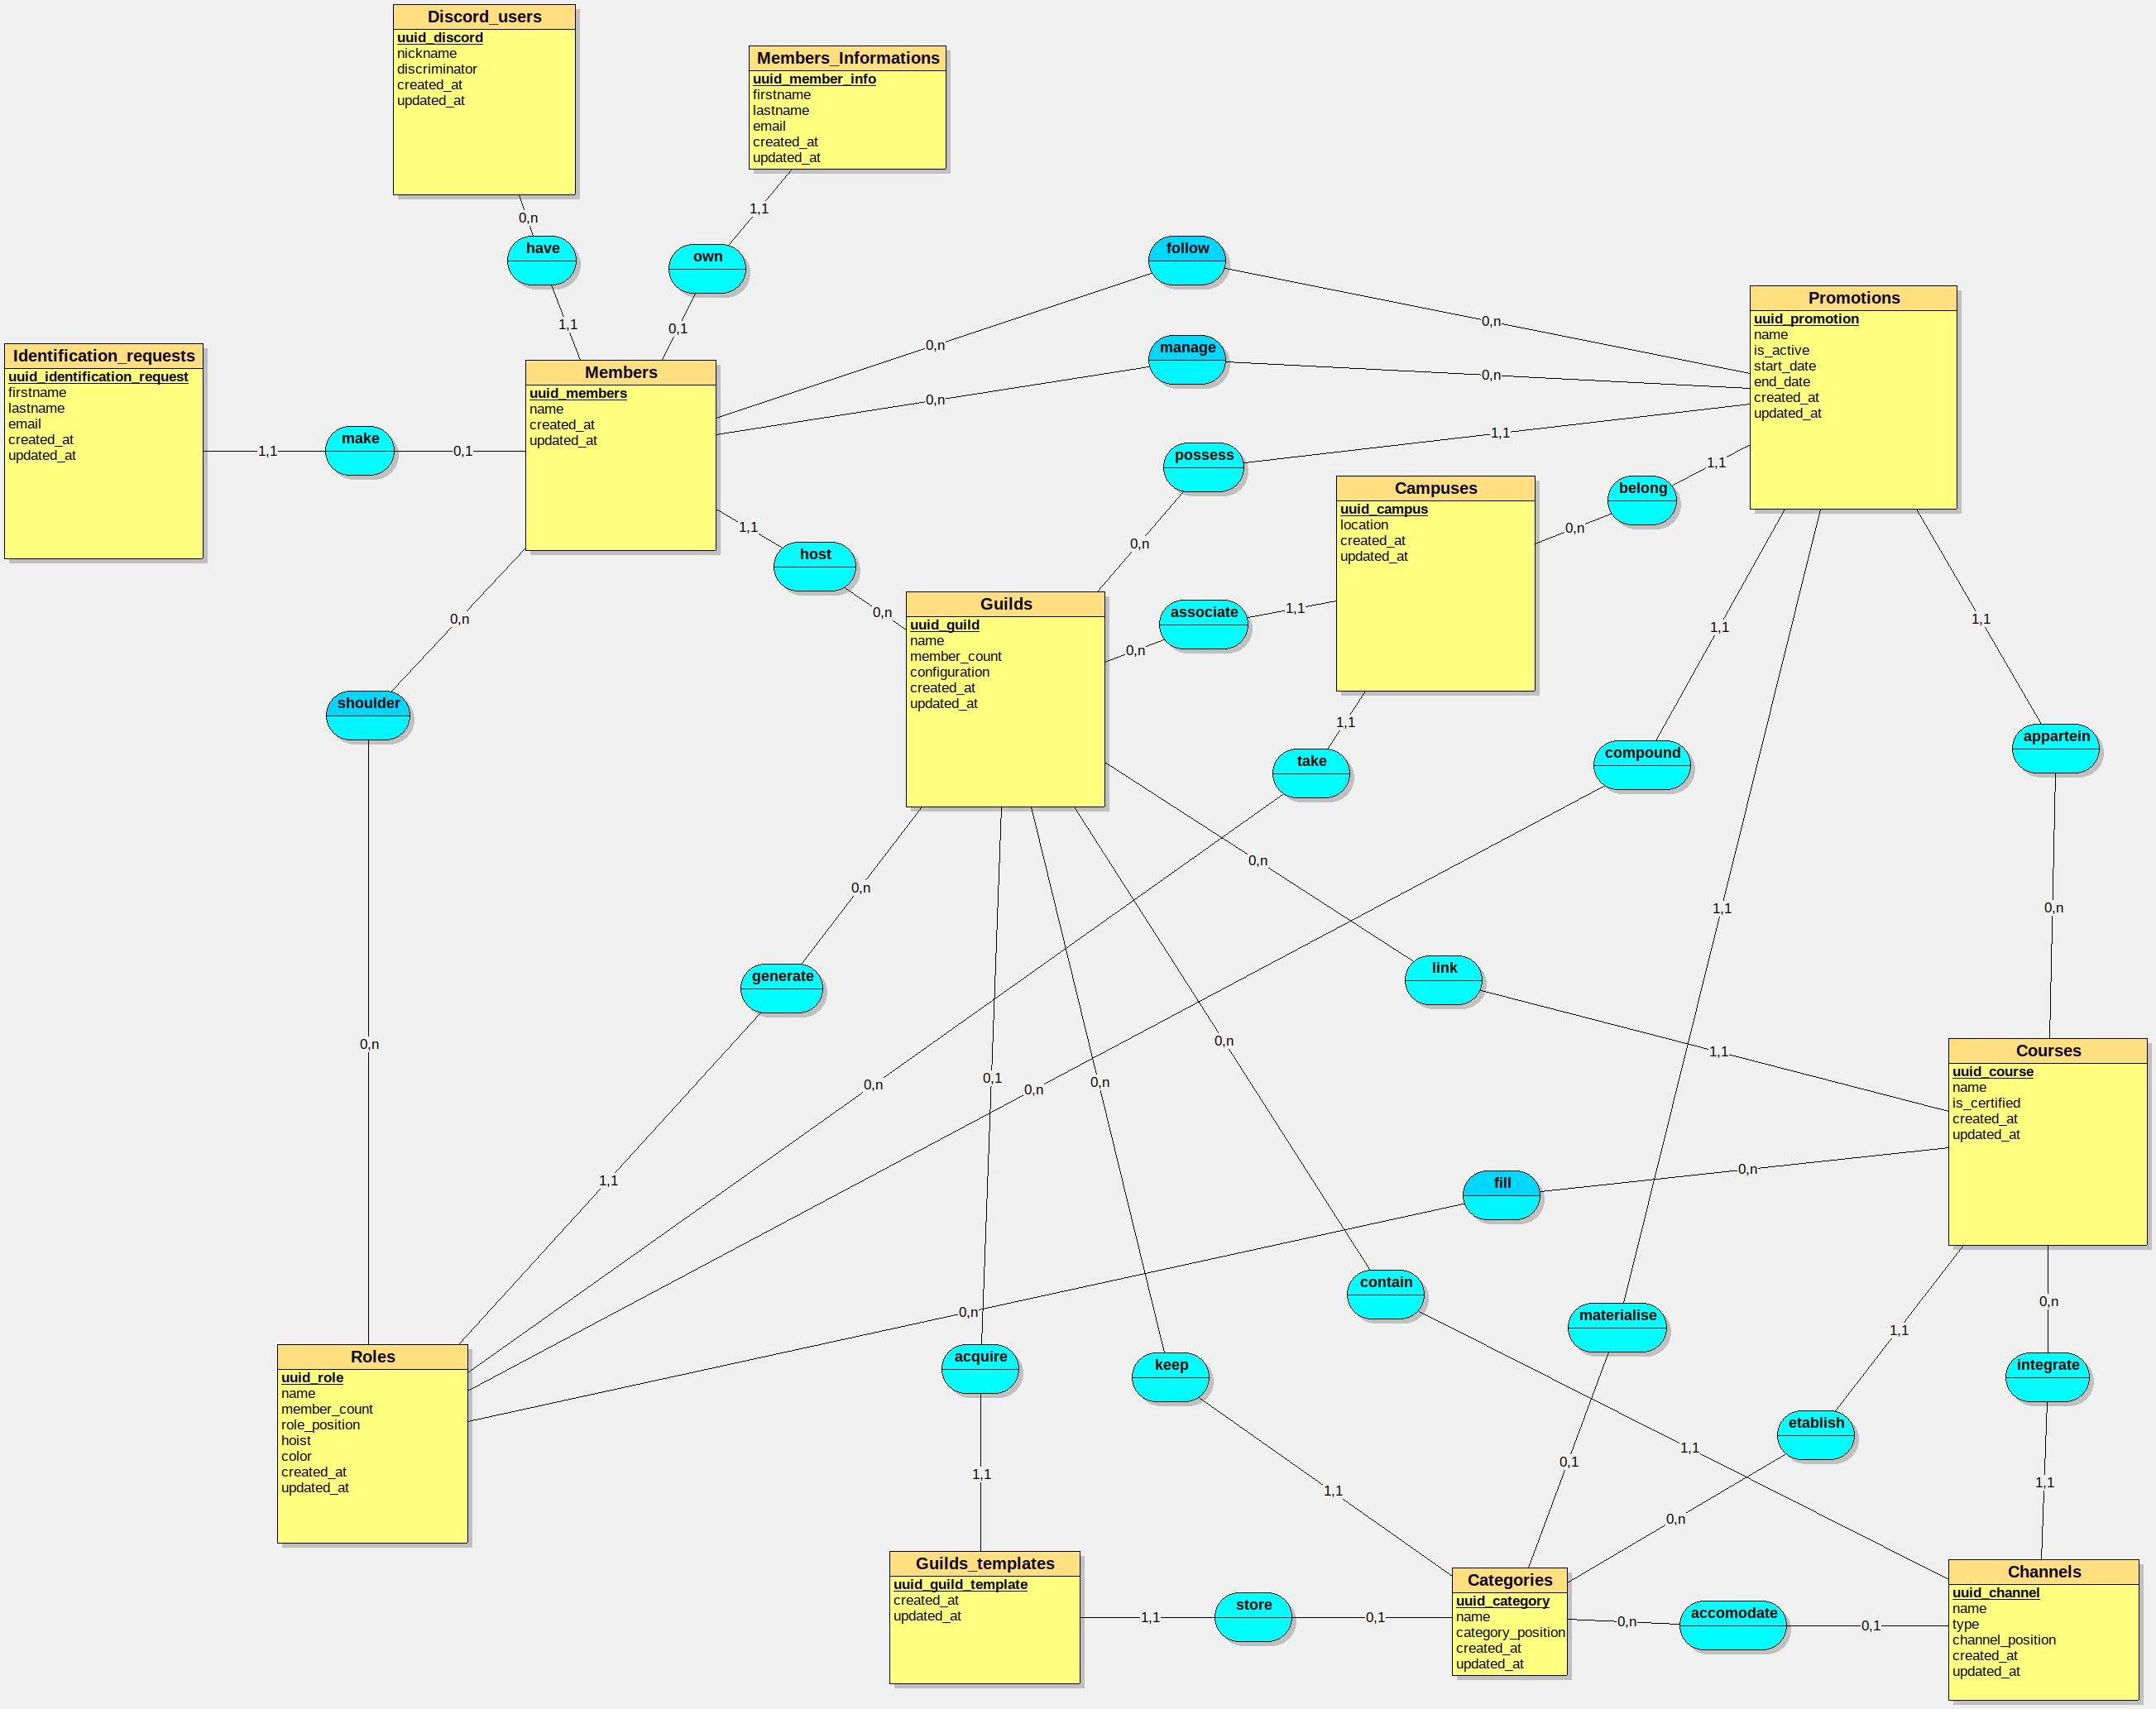
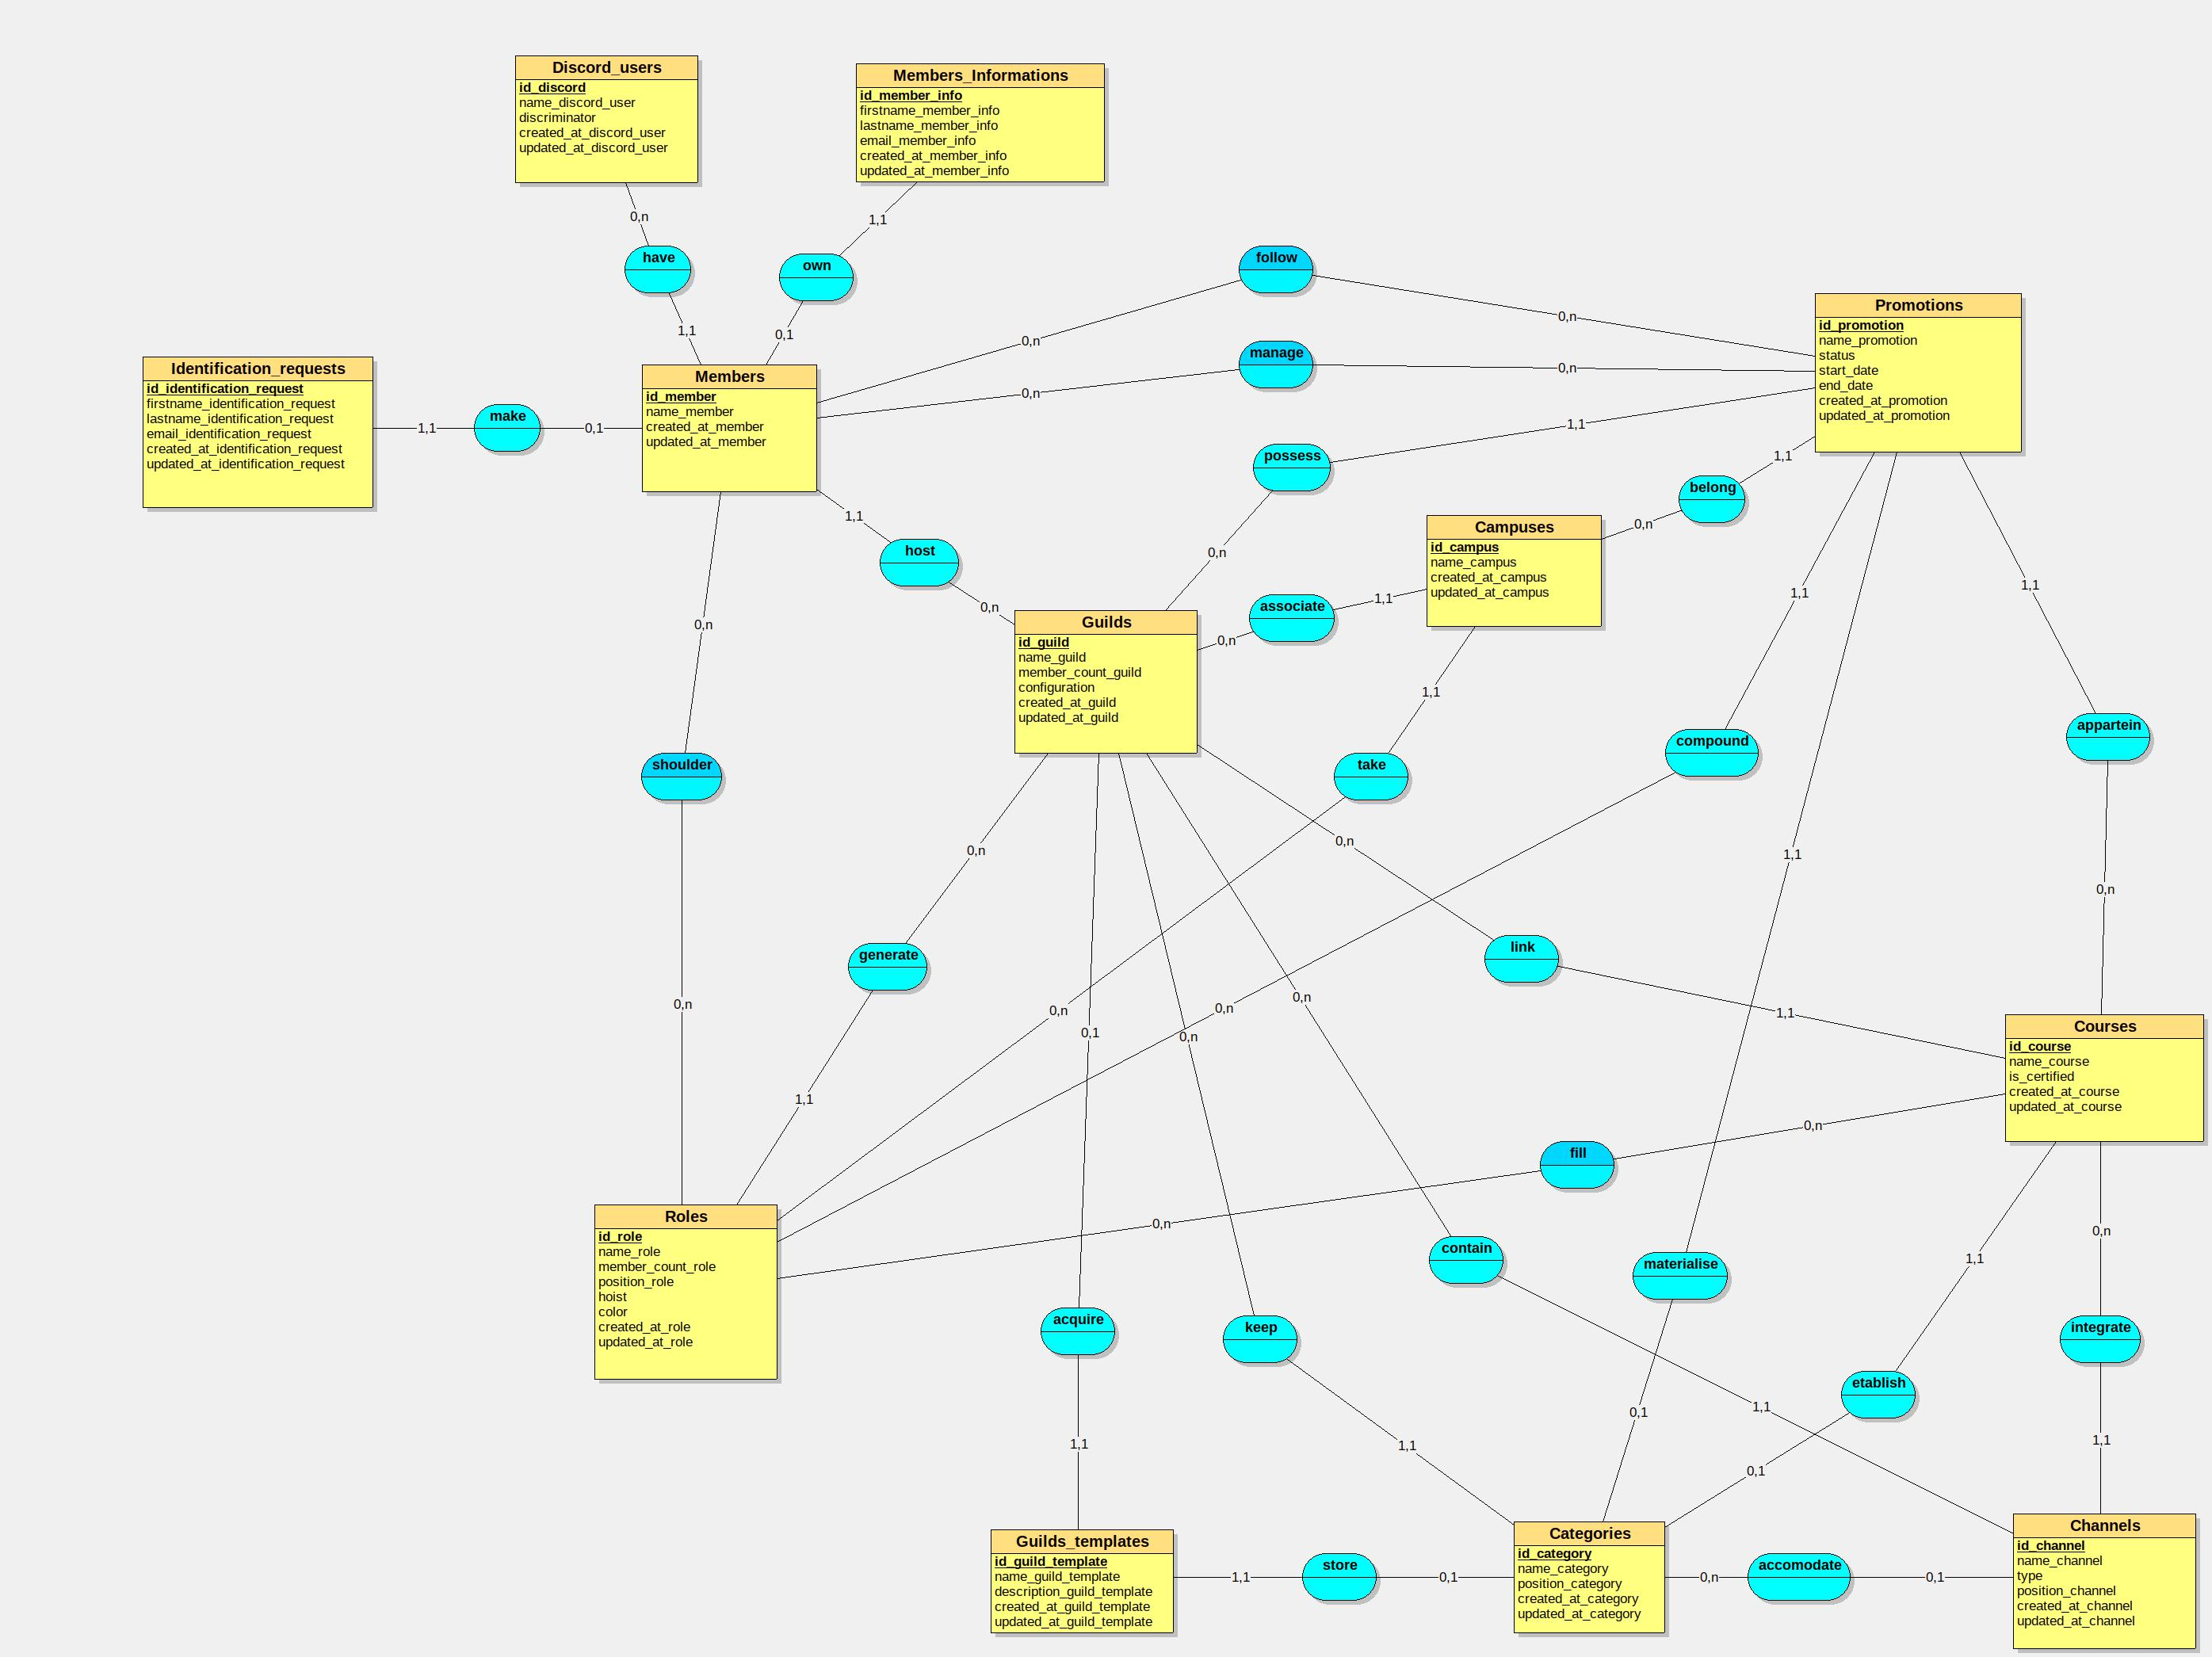
Merge pull request #4 from aReynier/feature/mcd
Feature/mcd

Pull request: Feature/mcd

diff --git a/doc/bot-onboarding/bdd/dictionnaire-de-donnees.md b/doc/bot-onboarding/bdd/dictionnaire-de-donnees.md
@@ -8,14 +8,15 @@
 | Guilds                  | `configuration`                    | object | "{ welcomeChan: '123', prefix: '!' }"  | Configuration du serveur Discord                             |
 | Guilds_templates        | `id_guild_template`                | text   | "123456789012345678"                   | Identifiant unique du template de serveur Discord            |
 | Guilds_templates        | `name_guild_template`              | text   | "template simplon"                     | Nom du template de serveur Discord                           |
+| Guilds_templates        | `description_guild_template`       | text   | "description template simplon"         | Description du template de serveur Discord                   |
 | Members                 | `id_member`                        | text   | "550e8400-e29b-41d4-a716-446655440000" | Identifiant unique du membre Discord                         |
 | Members                 | `name_member`                      | text   | "Jean Dupont"                          | Surnom discord du membre Discord                             |
 | Members_informations    | `id_member_info`                   | text   | "550e8400-e29b-41d4-a716-446655440000" | Identifiant unique des informations du membre Discord        |
-| Members_informations    | `firstname_member_informations`    | text   | "Jean"                                 | Prénom du membre Discord                                     |
-| Members_informations    | `lastname_member_informations`     | text   | "Dupont"                               | Nom de famille du membre Discord                             |
-| Members_informations    | `email__member_informations`       | text   | "[email redacted]"              | Adresse email du membre Discord                              |
+| Members_informations    | `firstname_member_info`            | text   | "Jean"                                 | Prénom du membre Discord                                     |
+| Members_informations    | `lastname_member_info`             | text   | "Dupont"                               | Nom de famille du membre Discord                             |
+| Members_informations    | `email_member_info`                | text   | "[email redacted]"              | Adresse email du membre Discord                              |
 | discord_users           | `id_discord`                       | text   | "123456789012345678"                   | Identifiant unique du membre Discord                         |
-| discord_users           | `discord_user_name`                | text   | "JeanDupont#1234"                      | Nom d'utilisateur du membre Discord                          |
+| discord_users           | `name_discord_user`                | text   | "JeanDupont#1234"                      | Nom d'utilisateur du membre Discord                          |
 | discord_users           | `discriminator`                    | text   | "1234"                                 | Discriminant du membre Discord                               |
 | identification_requests | `id_identification_request`        | text   | "550e8400-e29b-41d4-a716-446655440000" | Identifiant unique de la demande d'identification            |
 | identification_requests | `firstname_identification_request` | text   | "Jean"                                 | Prénom de la personne effectuant la demande d'identification |
@@ -30,11 +31,11 @@
 | Campuses                | `id_campus`                        | text   | "550e8400-e29b-41d4-a716-446655440000" | Identifiant unique du campus                                 |
 | Campuses                | `name_campus`                      | text   | "Valenciennes"                         | Nom du campus                                                |
 | Promotions              | `id_promotion`                     | text   | "123456789012345678"                   | Identifiant unique de la promotion                           |
-| Promotions              | `name_promation`                   | text   | "CDA-vals-p4"                          | nom de la promotion                                          |
-| Promotions              | `is_active`                        | bool   | true                                   | Si la promotion est active                                   |
+| Promotions              | `name_promotion`                   | text   | "CDA-vals-p4"                          | nom de la promotion                                          |
+| Promotions              | `status`                           | text   | "active"                               | Statut de la promotion (active, inactive etc.)               |
 | Promotions              | `start_date`                       | date   | "2024-01-01T00:00:00.000Z"             | date de début de la promotion                                |
 | Promotions              | `end_date`                         | date   | "2025-12-31T23:59:59.999Z"             | date de fin de la promotion                                  |
-| Courses                 | `id_courses`                       | text   | "123456789012345678"                   | identifiant unique de la formation                           |
+| Courses                 | `id_course`                        | text   | "123456789012345678"                   | identifiant unique de la formation                           |
 | Courses                 | `name_course`                      | text   | "CDA"                                  | nom de la formation                                          |
 | Courses                 | `is_certified`                     | bool   | true                                   | Si la formation est certifiante                              |
 | Channels                | `id_channel`                       | text   | "123456789012345678"                   | identifiant unique du channel                                |
@@ -43,5 +44,5 @@
 | Channels                | `position_channel`                 | int    | 1                                      | Positionnement du channel                                    |
 | Categories              | `id_category`                      | text   | "123456789012345678"                   | identifiant unique de la catégorie                           |
 | Categories              | `name_category`                    | text   | "stock"                                | nom de la catégorie                                          |
-| Categories              | `category_position`                | int    | 0                                      | positionnement de la catégorie dans le serveur               |
+| Categories              | `position_category`                | int    | 0                                      | positionnement de la catégorie dans le serveur               |
 |                         |                                    |        |                                        |                                                              |